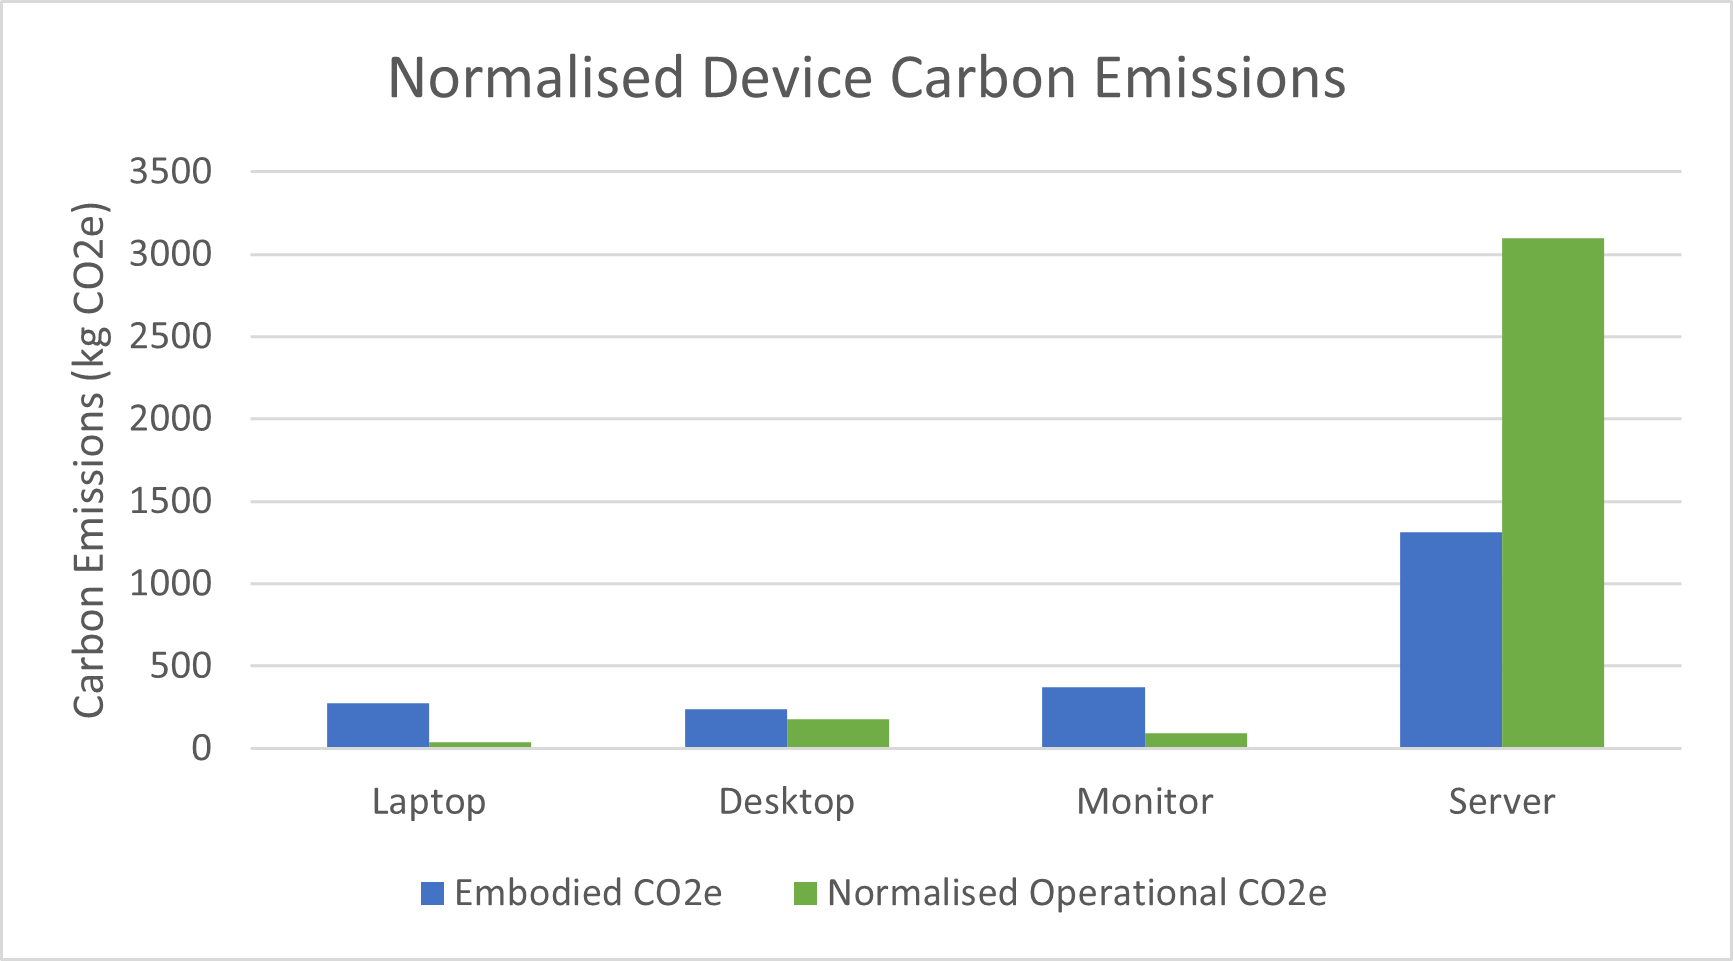
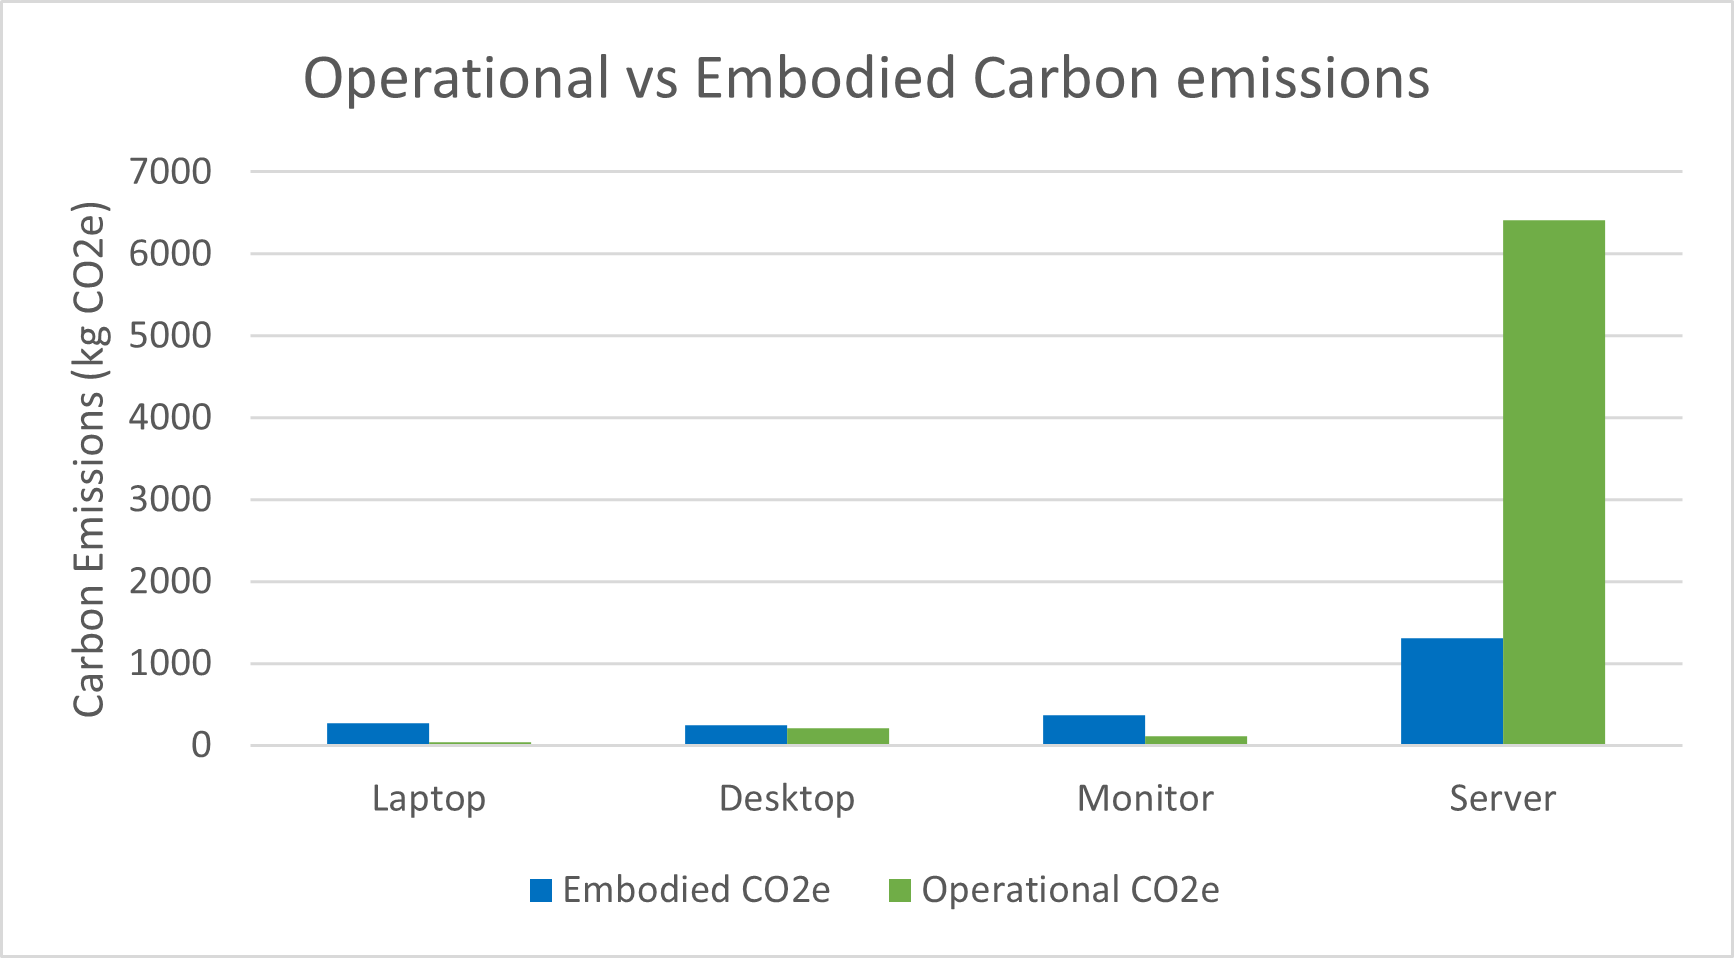
SF-266 Add sources for embodied carbon graphs

diff --git a/pages/categories/upstream.md b/pages/categories/upstream.md
@@ -32,15 +32,17 @@ Upstream emissions can vary significantly between devices. The [embodied carbon]
 
 ![embodied-vs-operational-amounts](/assets/images/embodied-vs-operational-amounts.png)
 
+*Source: Dell Product Carbon Footprint (PCF) documents for an example model of Laptop[^1], Desktop[^2], Monitor[^3] and Server[^4].*
+
 For employee hardware like laptops, embodied carbon typically constitutes 80% of total life cycle emissions with only 20% attributable to usage (operational). Conversely for servers, embodied typically accounts for 20% of total life cycle emissions with 80% attributable to usage. 
 
 ![embodied-vs-operational-percentages](/assets/images/embodied-vs-operational-percentages.png)
 
+*Source: Dell Product Carbon Footprint (PCF) documents for an example model of Laptop[^1], Desktop[^2], Monitor[^3] and Server[^4].*
+
 A full life cycle assessment is needed to thoroughly account for emissions from raw material extraction through production, transportation and delivery of devices. If specific data is unavailable, high-level estimates can be based on average emissions per device type, employees’ equipment, shipping mileage. 
 
-[Product Carbon Footprint (PCF)](/glossary#product-carbon-footprint-pcf) data from manufacturers provides an estimate of the greenhouse gas emissions attributable to a product over its full [product life cycle](/glossary#product-life-cycle), from manufacture (upstream) through to end-of-life disposal (downstream). This differs from a [Life Cycle Assessment (LCA)](/glossary#life-cycle-assessment-lca) which considers the broader environmental impacts beyond just greenhouse gas emissions (for example, water consumption). Reputable manufacturers use PCF tools that support complete LCAs, compliant with standards such as [ISO 14040](https://www.iso.org/standard/37456.html), [ISO 14044](https://www.iso.org/standard/38498.html) and [ISO 14067](https://www.iso.org/standard/71206.html). PCF data can often be difficult to find or may only be available on request. While standards aim for consistency, methodologies can vary between manufacturers so published figures require careful scrutiny to determine comparability. Additionally, such emissions figures have large margins of error. Studies have found truncation errors of 40% in estimating embodied carbon and 18% in estimating emissions associated with the usage phase of hardware [^1].
-
-[^1]: Berners-Lee, Mike. How Bad Are Bananas? : the Carbon Footprint of Everything. 2020
+[Product Carbon Footprint (PCF)](/glossary#product-carbon-footprint-pcf) data from manufacturers provides an estimate of the greenhouse gas emissions attributable to a product over its full [product life cycle](/glossary#product-life-cycle), from manufacture (upstream) through to end-of-life disposal (downstream). This differs from a [Life Cycle Assessment (LCA)](/glossary#life-cycle-assessment-lca) which considers the broader environmental impacts beyond just greenhouse gas emissions (for example, water consumption). Reputable manufacturers use PCF tools that support complete LCAs, compliant with standards such as [ISO 14040](https://www.iso.org/standard/37456.html), [ISO 14044](https://www.iso.org/standard/38498.html) and [ISO 14067](https://www.iso.org/standard/71206.html). PCF data can often be difficult to find or may only be available on request. While standards aim for consistency, methodologies can vary between manufacturers so published figures require careful scrutiny to determine comparability. Additionally, such emissions figures have large margins of error. Studies have found truncation errors of 40% in estimating embodied carbon and 18% in estimating emissions associated with the usage phase of hardware [^5].
 
 - [Apple Environmental Reports](https://www.apple.com/environment/)
 - [Dell Product Carbon Footprints](https://www.dell.com/en-uk/dt/corporate/social-impact/advancing-sustainability/climate-action/product-carbon-footprints.htm)
@@ -95,3 +97,10 @@ Network routers, switches, Wi-Fi access points installed.
 {% include linkedHeading.html heading="Data centre and Server Hardware" level=3 %}
 Servers, storage systems and data centre infrastructure installed on-premise.
 
+## References
+
+[^1]: [XPS 13 9310 PCF datasheet (delltechnologies.com)](https://www.delltechnologies.com/asset/en-gb/products/laptops-and-2-in-1s/technical-support/xps-13-9310.pdf)
+[^2]: [OptiPlex 7090 Tower PCF Datasheet (delltechnologies.com)](https://www.delltechnologies.com/asset/en-gb/products/desktops-and-all-in-ones/technical-support/optiplex-7090-tower-pcf-datasheet.pdf)
+[^3]: [P2422H Monitor PCF datasheet (delltechnologies.com)](https://www.delltechnologies.com/asset/en-gb/products/electronics-and-accessories/technical-support/p2422h-monitor-pcf-datasheet.pdf)
+[^4]: [carbon-footprint-poweredge-r640.pdf (dell.com)](https://i.dell.com/sites/csdocuments/CorpComm_Docs/en/carbon-footprint-poweredge-r640.pdf)
+[^5]: Berners-Lee, Mike. How Bad Are Bananas? : the Carbon Footprint of Everything. Book, 2020
